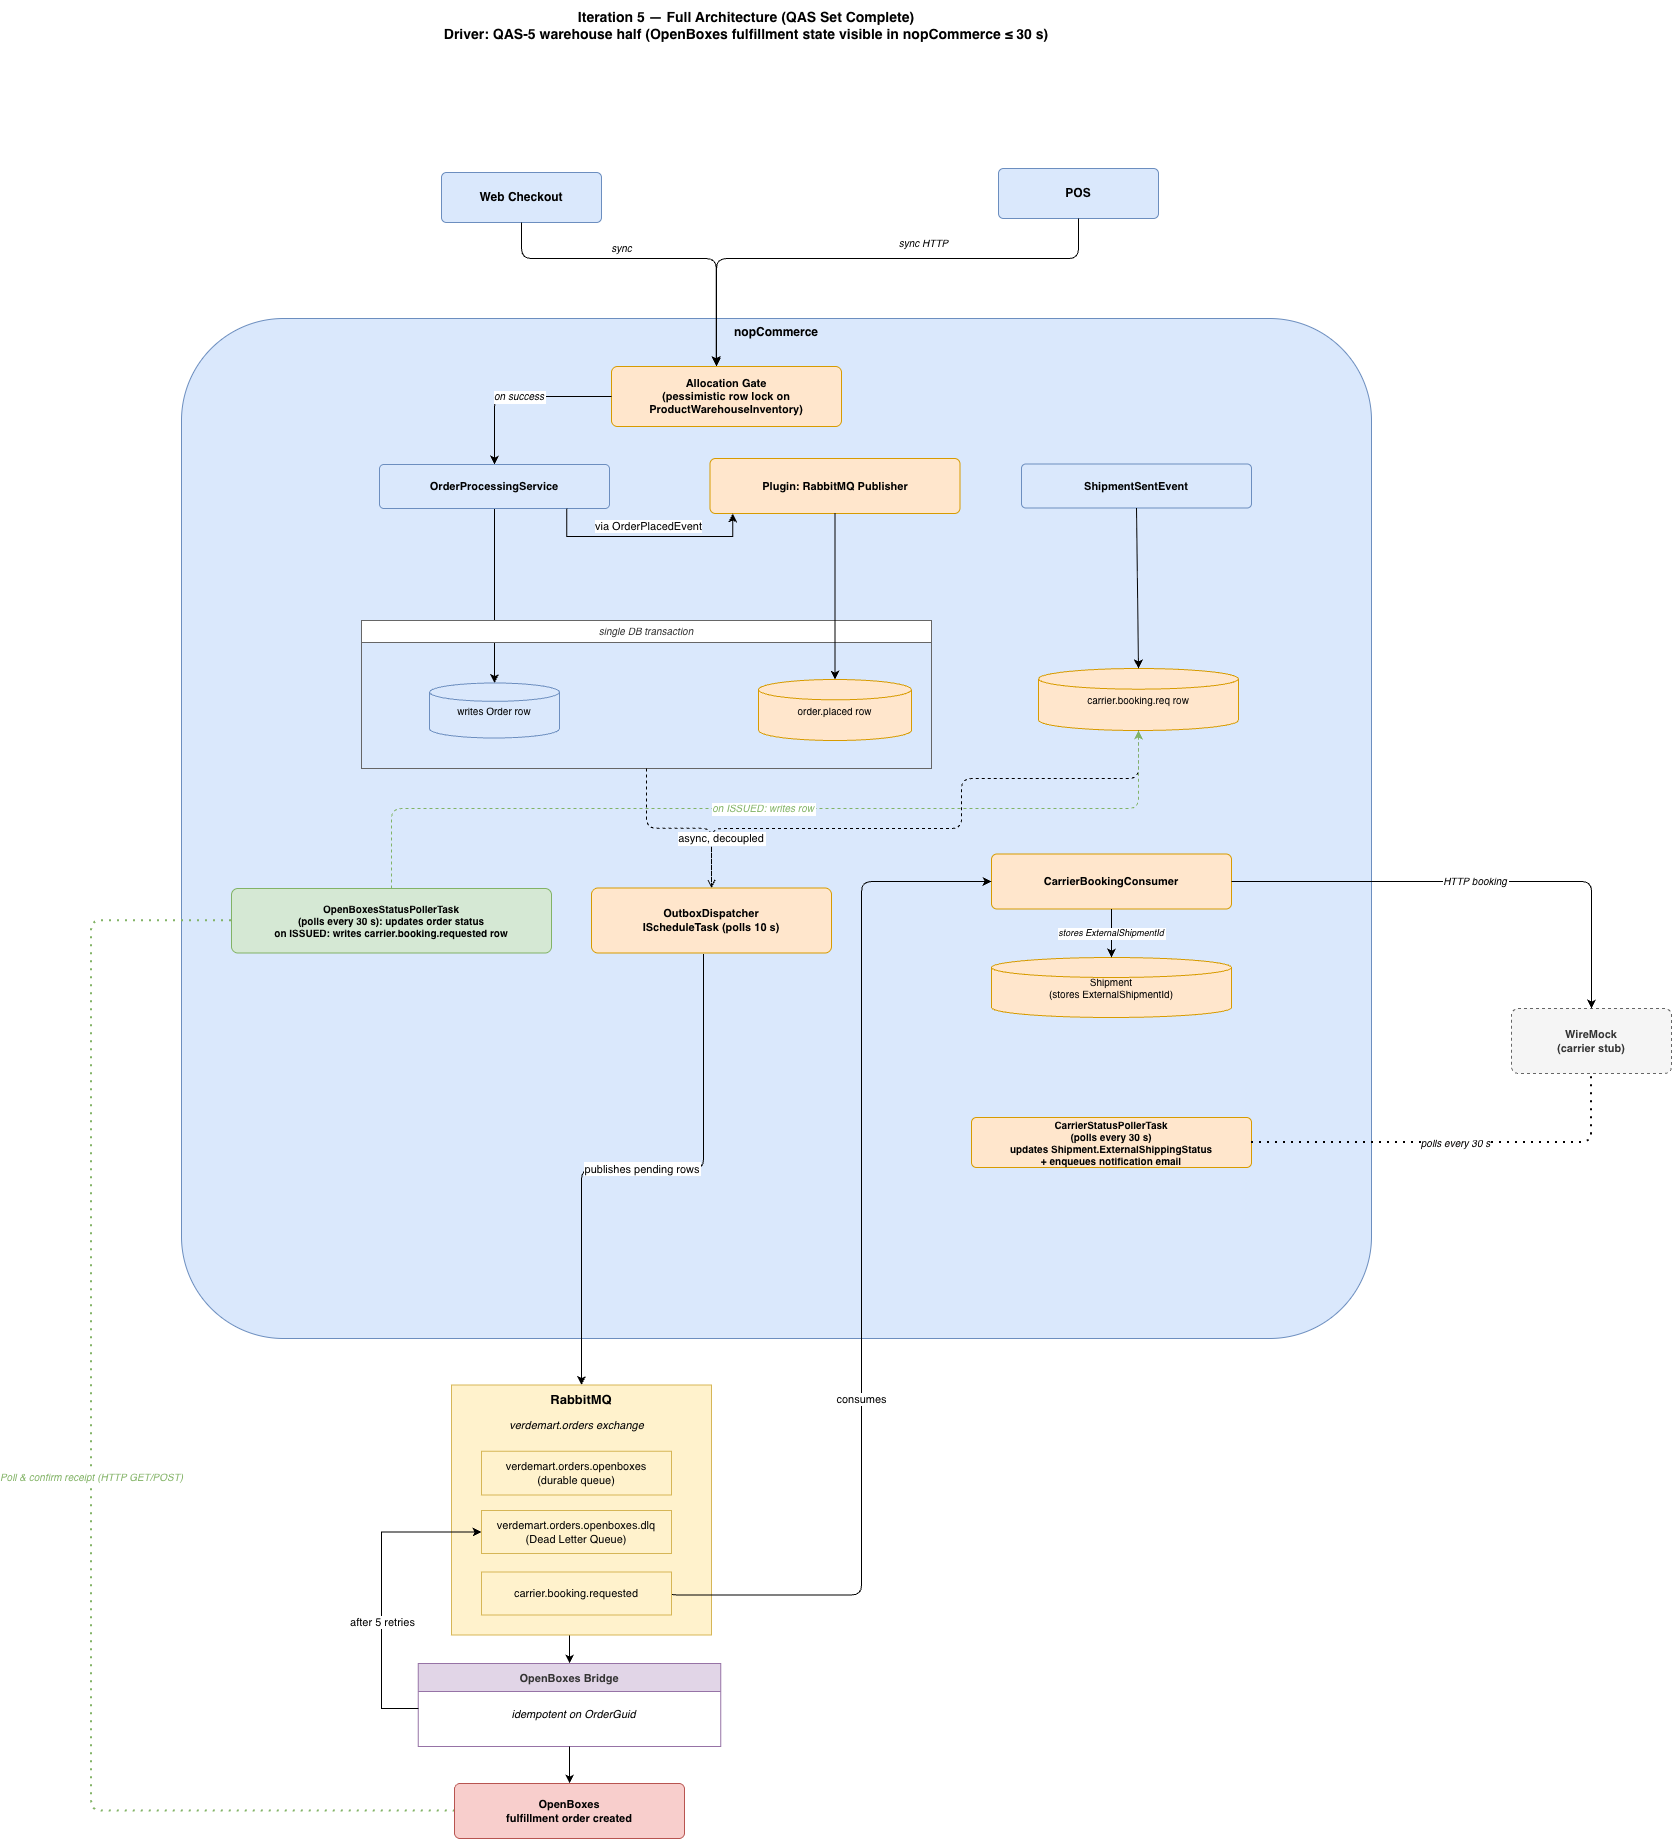
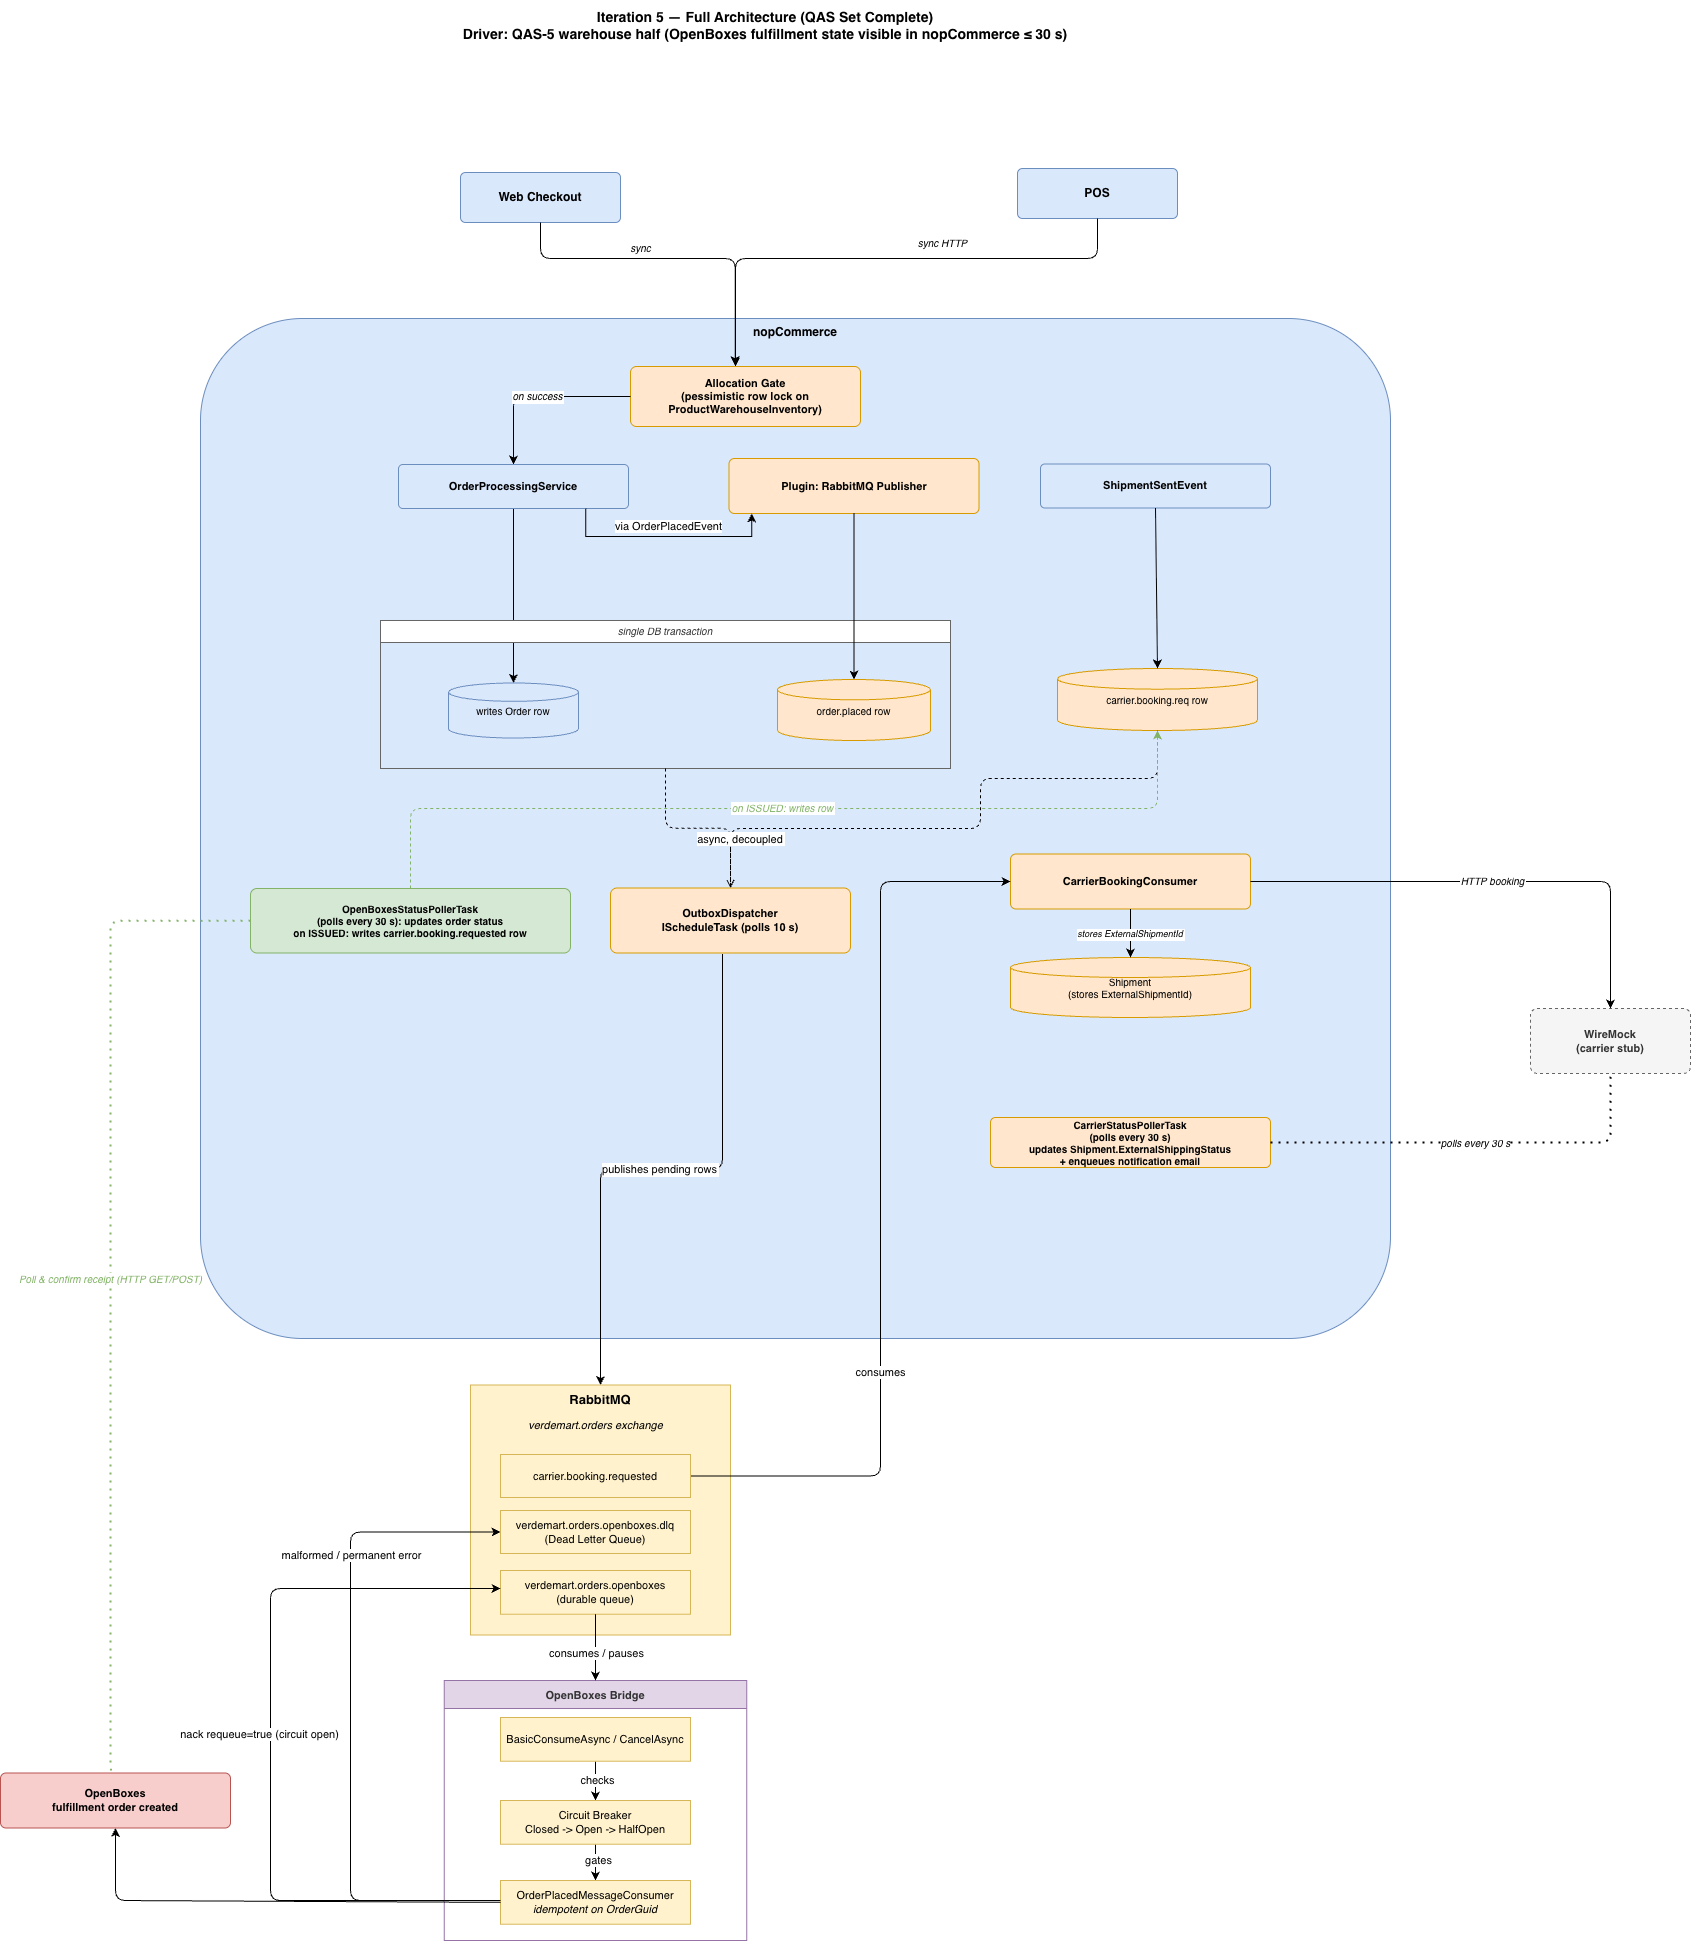
new architecture and adr11

diff --git a/docs/architecture/07-adrs/ADR-011-circuit-breaker-for-openboxes-bridge.md b/docs/architecture/07-adrs/ADR-011-circuit-breaker-for-openboxes-bridge.md
@@ -1,0 +1,87 @@
+# ADR-011 — Circuit Breaker for OpenBoxes Bridge Resilience
+
+| | |
+|---|---|
+| Status | Accepted |
+| Date | 2026-06-01 |
+| Produced by | Post-iteration resilience improvement — driven by QA finding: 12 orders lost to DLQ during a 30-minute OpenBoxes outage |
+
+## Context
+
+ADR-007 established the OpenBoxes Bridge as a separate deployable service that consumes `verdemart.orders.openboxes` and calls the OpenBoxes HTTP API. ADR-003 established durable queues and manual ack to guarantee at-least-once delivery.
+
+Under normal operation these decisions are sufficient. However, a QA scenario exposed a gap: if OpenBoxes is down for an extended period (e.g. 30 minutes), the bridge exhausts its retry budget (~30 seconds of exponential backoff across 5 attempts) and sends orders to the Dead Letter Queue. Recovery then requires a human operator to manually republish messages from the DLQ via the RabbitMQ Management UI.
+
+This creates two problems:
+
+1. **DLQ semantics are violated.** The DLQ is architecturally intended to hold messages that are genuinely unprocessable — malformed payloads, permanent business-level rejections. Transient outages are not in that category. Mixing them pollutes the DLQ signal: an operator looking at the DLQ cannot distinguish "bad data" from "OpenBoxes was down for 30 minutes".
+
+2. **Recovery requires manual intervention.** The architecture's at-least-once guarantee depends on durable queues and manual ack, but those guarantees are voided once a message lands in the DLQ and no operator is available to replay it.
+
+The question is: how should the bridge behave when OpenBoxes is known to be down, and how should it recover automatically when OpenBoxes comes back?
+
+## Decision
+
+Implement a **circuit breaker** pattern inside the bridge. The circuit breaker is a singleton (`CircuitBreaker`) that tracks OpenBoxes reachability across all message deliveries. `BridgeWorker` uses the circuit state to actively manage the RabbitMQ consumer lifecycle.
+
+### State machine
+
+```
+CLOSED ──(N consecutive transient failures)──► OPEN
+  ▲                                              │
+  │                                    (OpenTimeoutSeconds elapsed)
+  │                                              │
+  └──(probe succeeds)── HALF-OPEN ◄─────────────┘
+                              │
+                         (probe fails)
+                              ▼
+                            OPEN (timer resets)
+```
+
+- **Closed**: normal operation. Calls to OpenBoxes go through. Consecutive transient failure count is tracked.
+- **Open**: OpenBoxes is known unreachable. `BridgeWorker` calls `BasicCancelAsync` to stop accepting new messages. Messages already in the main queue remain there untouched. No calls to OpenBoxes are attempted.
+- **Half-Open**: after `CircuitBreakerOpenTimeoutSeconds` (default 60s), `BridgeWorker` calls `BasicConsumeAsync` to resume consumption. The first delivered message is used as a probe call to OpenBoxes. Success closes the circuit; failure re-opens it with a reset timer.
+
+### Consumer lifecycle
+
+`BridgeWorker` runs a loop: start consumer → poll circuit state every 200 ms → when circuit opens, call `BasicCancelAsync` → poll every 1s until circuit reaches HalfOpen → loop back to start consumer. This is the key difference from the previous design: the consumer is no longer a passive always-on subscription. It is explicitly started and stopped based on downstream health.
+
+### Message routing
+
+| Event | Route |
+|---|---|
+| Circuit open on delivery (race window) | `BasicNackAsync(requeue: true)` — message stays in main queue |
+| Transient failure, circuit still closed | `BasicNackAsync(requeue: true)` with exponential backoff |
+| Transient failure opens the circuit | `BasicNackAsync(requeue: true)` — consumer cancelled immediately after |
+| Permanent failure (non-transient HTTP error) | `BasicNackAsync(requeue: false)` → DLQ |
+| Parse / deserialise failure | `BasicNackAsync(requeue: false)` → DLQ |
+| Success | `BasicAckAsync` + dedup recorded |
+
+The DLQ now strictly receives messages that are genuinely unprocessable. Transient failures never reach it.
+
+### Configuration
+
+| Setting | Default | Meaning |
+|---|---|---|
+| `CircuitBreakerFailureThreshold` | 3 | Consecutive transient failures before opening |
+| `CircuitBreakerOpenTimeoutSeconds` | 60 | Seconds circuit stays open before half-open probe |
+
+## Rejected Alternatives
+
+**DLQ replay worker (polling + `BasicGetAsync`).**
+A `BackgroundService` that periodically probes OpenBoxes health and, when healthy, drains the DLQ by republishing messages to the main exchange. *Rejected:* this re-processes all DLQ messages indiscriminately, including genuine poison messages (parse failures, permanent errors) that will fail again and bounce back to the DLQ. It also requires a health probe loop, adds a second worker, and introduces an extra RabbitMQ hop per message (DLQ → exchange → main queue). Most importantly, it does not fix the root cause — it merely adds a recovery mechanism on top of a design that still routes transient failures to the wrong queue.
+
+**Delayed retry queue (TTL + dead-letter back to main exchange).**
+Instead of the DLQ, transient-exhausted messages are published to a separate queue with `x-message-ttl` equal to the circuit timeout and `x-dead-letter-exchange` pointing back to the main exchange. RabbitMQ automatically returns them after the TTL. *Rejected:* this approach is correct in that it preserves DLQ semantics, but it requires messages to exhaust their retry budget (5 attempts, ~30s) before being parked — even when OpenBoxes has been known unreachable since the first attempt. The circuit breaker avoids this: once the circuit opens, subsequent messages skip retries entirely and stay in the main queue with no wasted attempts. The TTL queue also adds a topology element and introduces a fixed replay delay regardless of when OpenBoxes actually recovers, whereas the half-open probe fires exactly at the timeout boundary.
+
+**Increase `MaxRedeliveryAttempts` indefinitely.**
+Raising the retry ceiling means messages remain in the main queue longer before reaching the DLQ. *Rejected:* this is not a circuit breaker — it is a delay. With exponential backoff capped at 30s, a sufficiently long outage still exhausts any finite retry budget. It also holds the consumer thread in a delay loop for every message during the outage, blocking other messages from being processed.
+
+## Consequences
+
+- Transient outages no longer send any message to the DLQ. The DLQ signal is restored to its intended meaning: bad data or permanent rejection.
+- No operator intervention is required for recovery. The bridge self-heals within one circuit timeout after OpenBoxes comes back.
+- Messages are never lost: they remain in the durable main queue while the circuit is open, honouring the at-least-once guarantee established in ADR-003.
+- The bridge is no longer a passive consumer. `BridgeWorker` actively manages the consumer lifecycle, adding a small polling overhead (200 ms poll on circuit state).
+- The circuit breaker state is in-process memory (singleton). If the bridge restarts while the circuit is open, the state resets to Closed. The first message after restart will probe OpenBoxes and re-open the circuit if it is still down — at the cost of one extra failed attempt per restart.
+- A new operational signal is available: the circuit state transitions are logged at Warning level, making OpenBoxes outages visible in structured logs without requiring RabbitMQ Management UI inspection.
